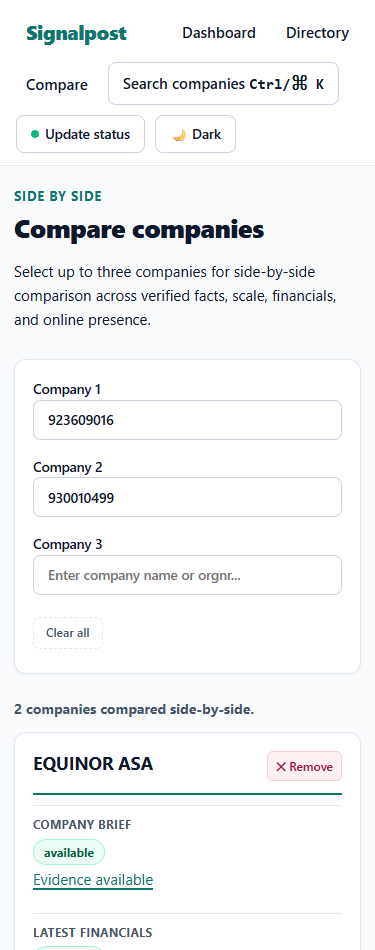
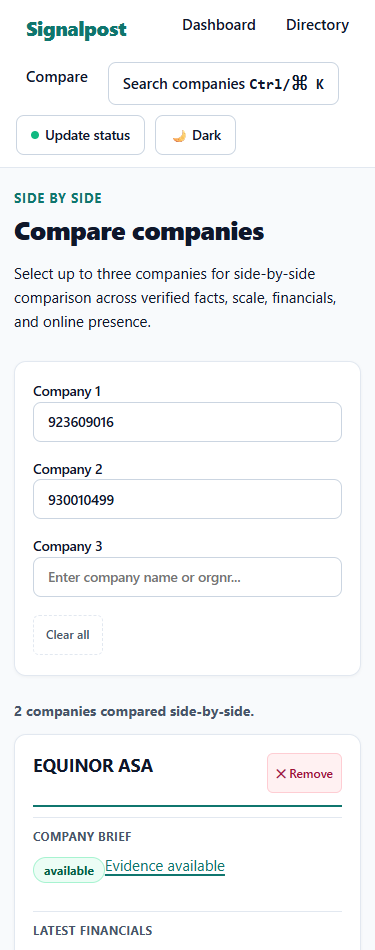
Enforce accessible touch targets across legacy controls and citations

diff --git a/src/signalpost/site_assets/site.css b/src/signalpost/site_assets/site.css
@@ -1761,3 +1761,7 @@ button, input, select, nav a { min-height: 40px; }
   .financial-table thead { position: absolute; width: 1px; height: 1px; overflow: hidden; clip-path: inset(50%); }
   .values dd, code, blockquote, .fact, h1, h2, h3 { overflow-wrap: anywhere; }
 }
+
+/* Accessibility floors override smaller legacy component variants. */
+button, input, select, a[href] { min-height: 40px !important; min-width: 40px !important; }
+a[href] { display: inline-block; max-width: 100%; box-sizing: border-box; vertical-align: middle; }

diff --git a/reports/r2-progress.md b/reports/r2-progress.md
@@ -202,4 +202,92 @@
 
 2026-10-18T03:28:48+05:30 — 16196f8 commits live exact-site refresh revalidation. Prompt file was locally verbatim but Git had normalized line endings; a file-specific -text attribute and explicit renormalization now make the staged blob exactly match original SHA256 3d7bae9e9eae7b612d1c0e8448ce58ce41ddd1dc5269c92cade8caca4f38670d. No global Git settings changed.
 
-NEXT: Commit exact-byte prompt preservation, then run the full corrected test suite before final source freeze.
+2026-10-18T03:30:11+05:30 — 87d5877 preserves exact prompt bytes; source tree is clean. Corrected full pytest suite is active (tool session 2578); do not duplicate it. The next full matrix uses out/r2_final.py and fresh out/r2-final-* state, retaining the failed first-refresh artifacts for comparison.
+
+2026-10-18T03:30:31+05:30 — Corrected full suite PASS: 494 tests in 78.72 s at 87d5877. Runtime/CLI, long-anchor/JSON-LD evidence, branch scope, deletion-field and fresh previous-site revalidation checks are green. First matrix remains historical and failed refresh; the final matrix must stand on its own.
+
+2026-10-18T03:30:31+05:30 — Heartbeat: Phase E normal still running, PID 22628, frozen SHA 87d587759500.
+
+2026-10-18T03:31:16+05:30 — Heartbeat: Phase E normal still running, PID 22628, frozen SHA 87d587759500.
+
+2026-10-18T03:32:01+05:30 — Heartbeat: Phase E normal still running, PID 22628, frozen SHA 87d587759500.
+
+2026-10-18T03:32:46+05:30 — Heartbeat: Phase E normal still running, PID 22628, frozen SHA 87d587759500.
+
+2026-10-18T03:33:32+05:30 — Heartbeat: Phase E normal still running, PID 22628, frozen SHA 87d587759500.
+
+2026-10-18T03:33:44+05:30 — Heartbeat: Phase E 30 still running, PID 22672, frozen SHA 87d587759500.
+
+2026-10-18T03:34:02+05:30 — Heartbeat: Phase E 120 still running, PID 19868, frozen SHA 87d587759500.
+
+2026-10-18T03:34:47+05:30 — Heartbeat: Phase E 120 still running, PID 19868, frozen SHA 87d587759500.
+
+2026-10-18T03:34:59+05:30 — Heartbeat: Phase E 600 still running, PID 22380, frozen SHA 87d587759500.
+
+2026-10-18T03:35:44+05:30 — Heartbeat: Phase E 600 still running, PID 22380, frozen SHA 87d587759500.
+
+2026-10-18T03:36:29+05:30 — Heartbeat: Phase E 600 still running, PID 22380, frozen SHA 87d587759500.
+
+2026-10-18T03:37:14+05:30 — Heartbeat: Phase E 600 still running, PID 22380, frozen SHA 87d587759500.
+
+2026-10-18T03:37:59+05:30 — Heartbeat: Phase E 600 still running, PID 22380, frozen SHA 87d587759500.
+
+2026-10-18T03:38:44+05:30 — Heartbeat: Phase E 600 still running, PID 22380, frozen SHA 87d587759500.
+
+2026-10-18T03:38:55+05:30 — Heartbeat: Phase E req3000 still running, PID 23096, frozen SHA 87d587759500.
+
+2026-10-18T03:39:40+05:30 — Heartbeat: Phase E req3000 still running, PID 23096, frozen SHA 87d587759500.
+
+2026-10-18T03:40:25+05:30 — Heartbeat: Phase E req3000 still running, PID 23096, frozen SHA 87d587759500.
+
+2026-10-18T03:40:52+05:30 — Heartbeat: Phase E nationwide30 still running, PID 25296, frozen SHA 87d587759500.
+
+2026-10-18T03:41:12+05:30 — Heartbeat: Phase E nationwide-normal still running, PID 12860, frozen SHA 87d587759500.
+
+2026-10-18T03:41:57+05:30 — Heartbeat: Phase E nationwide-normal still running, PID 12860, frozen SHA 87d587759500.
+
+2026-10-18T03:42:42+05:30 — Heartbeat: Phase E nationwide-normal still running, PID 12860, frozen SHA 87d587759500.
+
+2026-10-18T03:43:27+05:30 — Heartbeat: Phase E nationwide-normal still running, PID 12860, frozen SHA 87d587759500.
+
+2026-10-18T03:44:13+05:30 — Heartbeat: Phase E nationwide-normal still running, PID 12860, frozen SHA 87d587759500.
+
+2026-10-18T03:44:58+05:30 — Heartbeat: Phase E nationwide-normal still running, PID 12860, frozen SHA 87d587759500.
+
+2026-10-18T03:45:43+05:30 — Heartbeat: Phase E nationwide-normal still running, PID 12860, frozen SHA 87d587759500.
+
+2026-10-18T03:45:52+05:30 — Heartbeat: Phase E refresh still running, PID 5596, frozen SHA 87d587759500.
+
+2026-10-18T03:46:37+05:30 — Heartbeat: Phase E refresh still running, PID 5596, frozen SHA 87d587759500.
+
+2026-10-18T03:47:22+05:30 — Heartbeat: Phase E refresh still running, PID 5596, frozen SHA 87d587759500.
+
+2026-10-18T03:48:07+05:30 — Heartbeat: Phase E refresh still running, PID 5596, frozen SHA 87d587759500.
+
+2026-10-18T03:48:52+05:30 — Heartbeat: Phase E refresh still running, PID 5596, frozen SHA 87d587759500.
+
+2026-10-18T03:49:37+05:30 — Heartbeat: Phase E refresh still running, PID 5596, frozen SHA 87d587759500.
+
+2026-10-18T03:50:22+05:30 — Heartbeat: Phase E refresh still running, PID 5596, frozen SHA 87d587759500.
+
+2026-10-18T03:50:23+05:30 — Heartbeat: Phase E baseline24 still running, PID 15288, frozen SHA 87d587759500.
+
+2026-10-18T03:51:09+05:30 — Heartbeat: Phase E baseline24 still running, PID 15288, frozen SHA 87d587759500.
+
+2026-10-18T03:51:14+05:30 — Heartbeat: Phase E compare1000 still running, PID 16992, frozen SHA 87d587759500.
+
+2026-10-18T03:51:17+05:30 — Heartbeat: Phase E compare-refresh still running, PID 12208, frozen SHA 87d587759500.
+
+2026-10-18T03:51:21+05:30 — Heartbeat: Phase E compare24 still running, PID 15744, frozen SHA 87d587759500.
+
+2026-10-18T03:51:21+05:30 — Heartbeat: Phase E verify1000 still running, PID 24900, frozen SHA 87d587759500.
+
+2026-10-18T03:51:26+05:30 — Heartbeat: Phase E verify24 still running, PID 22436, frozen SHA 87d587759500.
+
+2026-10-18T03:51:27+05:30 — Heartbeat: Phase E audit still running, PID 26420, frozen SHA 87d587759500.
+
+2026-10-18T03:51:37+05:30 — Phase E live runs, refresh, comparisons and automated audit finished; inspect every gate before any release claim.
+
+2026-10-18T03:52:02+05:30 — Second frozen matrix at 87d5877: all seven capacity checks PASS, all 28,726 identity IDs; refresh has 0 lost IDs, 0 duplicates, 0 material changes, 257 availability observations. Touch probe found legacy component classes overriding 40px sizing; isolated CSS floor fixes all observed targets and passes ten 1440/375 viewport checks. Applying only that CSS change, then regating the exact final source.
+
+NEXT: Commit the verified touch-target CSS, run full suite, then run out/r2_gate.py once with fresh state and inspect all release gates before branch push.
